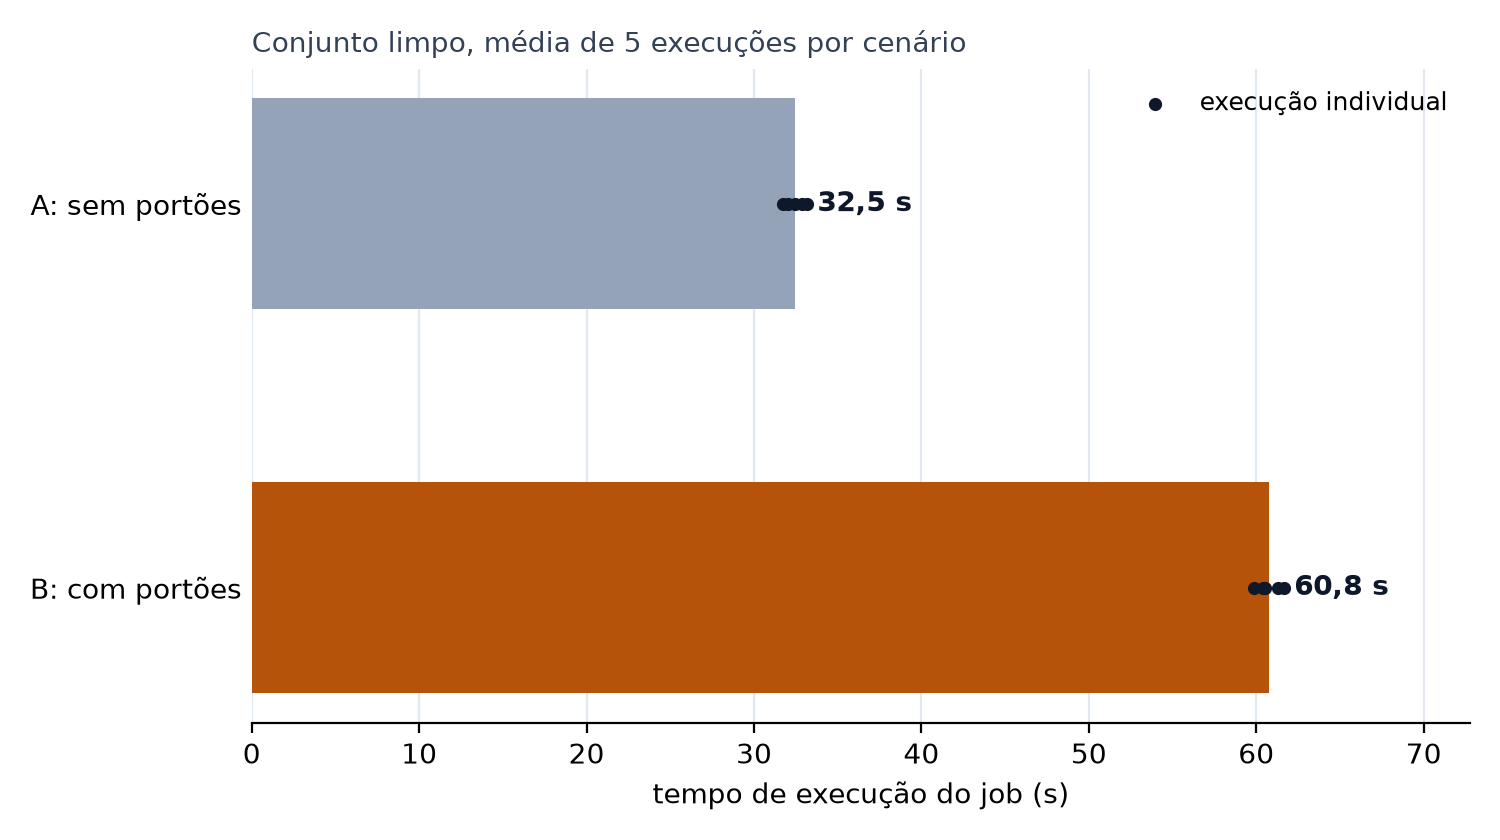
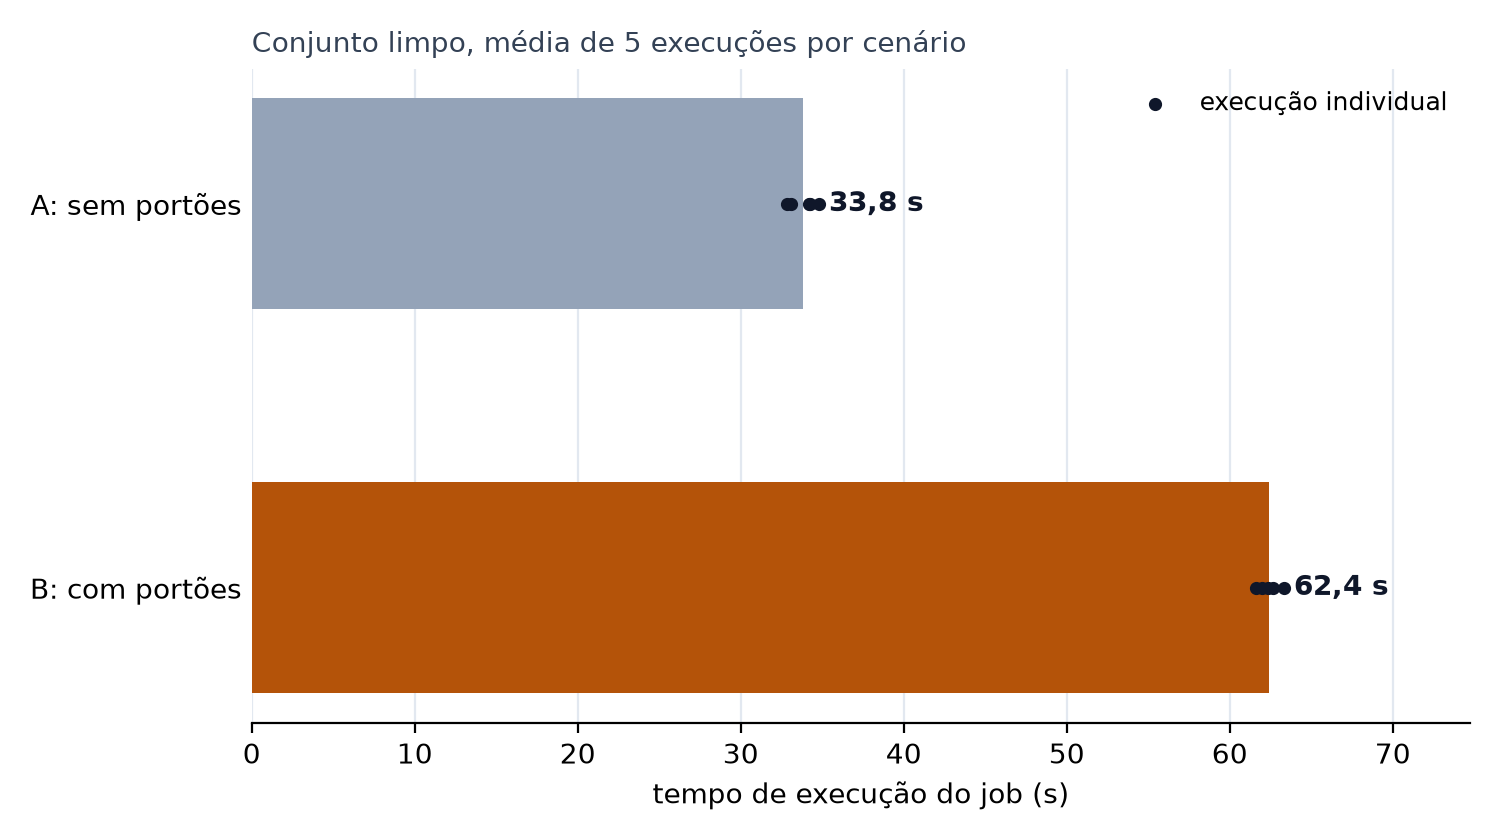
Readme and tests update

diff --git a/README.md b/README.md
@@ -210,8 +210,8 @@ flowchart TD
 *Model lineage and documentation generated by dbt.*
 
 ### 📦 Storage Console (SeaweedFS)
-![Storage Console](docs/storage_ui.png)
-*S3-compatible storage browser: one bucket per layer, with the `quarantine/` prefix next to the tables in the bucket it guards.*
+![Storage Console](docs/seaweed_ui.png)
+*SeaweedFS admin console: one bucket per medallion layer. Quarantined data lives under a `quarantine/` prefix inside the bucket it was rejected from (browse it in File Browser).*
 
 ### 📊 Streamlit Dashboard (Gold)
 ![Streamlit Dashboard](docs/streamlit_ui.png)
